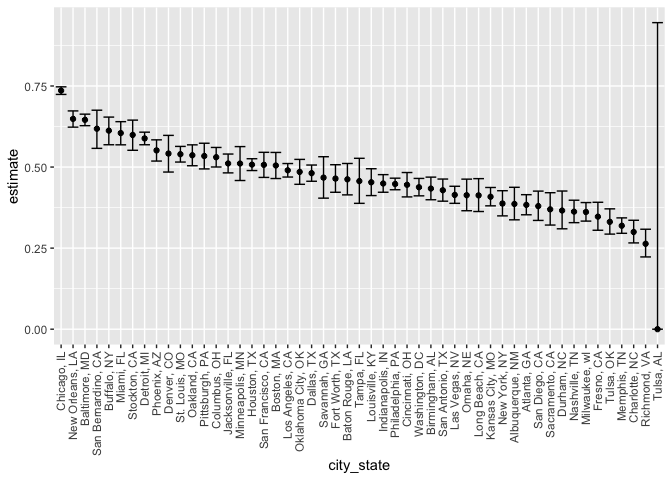
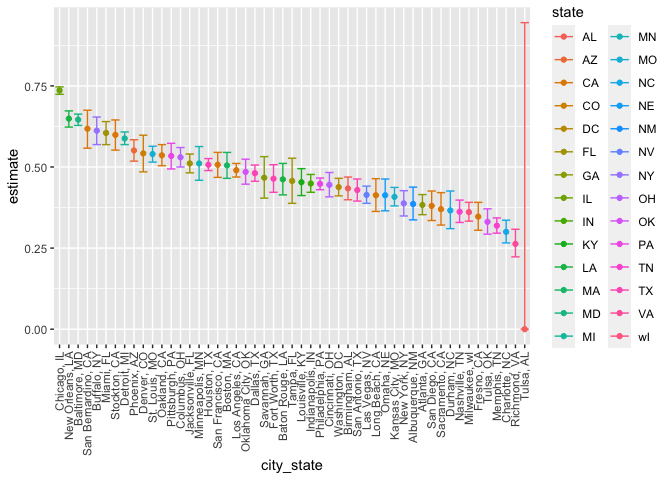
Finished problem 3.

Changed region(s): [[0.0625, 0.0, 1.0, 1.0], [0.0625, 0.1562, 0.0938, 0.2188]]

diff --git a/p8105_hw5_lr2854.md b/p8105_hw5_lr2854.md
@@ -54,7 +54,10 @@ homicide_df = homicide_df %>%
   ) %>% 
   select(city_state, n_unsolved, total_homicides, tidy_results) %>% 
   unnest(tidy_results) %>% 
-  select(city_state, n_unsolved, total_homicides, estimate, conf.low, conf.high) %>%
+  select(city_state, n_unsolved, total_homicides, estimate, conf.low, conf.high) %>% 
+  mutate(estimate = round(estimate, 3),
+         conf.low = round(conf.low,3),
+         conf.high = round(conf.high,3)) %>%
   janitor::clean_names("snake")
 ## Warning in .f(.x[[1L]], .y[[1L]], ...): Chi-squared approximation may be
 ## incorrect
@@ -71,7 +74,7 @@ homicide_df
 ##  5 Birmingham, AL         347             800    0.434    0.399     0.469
 ##  6 Boston, MA             310             614    0.505    0.465     0.545
 ##  7 Buffalo, NY            319             521    0.612    0.569     0.654
-##  8 Charlotte, NC          206             687    0.300    0.266     0.336
+##  8 Charlotte, NC          206             687    0.3      0.266     0.336
 ##  9 Chicago, IL           4073            5535    0.736    0.724     0.747
 ## 10 Cincinnati, OH         309             694    0.445    0.408     0.483
 ## # … with 41 more rows
@@ -85,7 +88,8 @@ for completeness.
 homicide_df %>% 
   ungroup() %>%
   mutate(city_state = fct_reorder(city_state, desc(estimate))) %>%
-  ggplot(aes(x = city_state, y = estimate)) +
+  mutate(state = str_sub(city_state, start = -2, end = -1)) %>%
+  ggplot(aes(x = city_state, y = estimate, color = state)) +
   geom_point() + 
   geom_errorbar(aes(ymin = conf_low, ymax = conf_high)) +
   theme(axis.text.x = element_text(angle = 90, vjust = 0.5, hjust = 1))
@@ -113,64 +117,90 @@ study_data = map_dfr(file_names, read_multi_csv) %>%
   mutate(
     study_arm = ifelse(study_arm == "con", "control", "experimental")
   ) %>%
-  select(study_arm, everything()) %>%
-  nest(study_arm)
-## Warning: All elements of `...` must be named.
-## Did you want `data = c(study_arm)`?
+  select(study_arm, everything())
 
 knitr:::kable(study_data)
 ```
 
-| subject_id | week_1 | week_2 | week_3 | week_4 | week_5 | week_6 | week_7 | week_8 | data         |
-|:-----------|-------:|-------:|-------:|-------:|-------:|-------:|-------:|-------:|:-------------|
-| con_01     |   0.20 |  -1.31 |   0.66 |   1.96 |   0.23 |   1.09 |   0.05 |   1.94 | control      |
-| con_02     |   1.13 |  -0.88 |   1.07 |   0.17 |  -0.83 |  -0.31 |   1.58 |   0.44 | control      |
-| con_03     |   1.77 |   3.11 |   2.22 |   3.26 |   3.31 |   0.89 |   1.88 |   1.01 | control      |
-| con_04     |   1.04 |   3.66 |   1.22 |   2.33 |   1.47 |   2.70 |   1.87 |   1.66 | control      |
-| con_05     |   0.47 |  -0.58 |  -0.09 |  -1.37 |  -0.32 |  -2.17 |   0.45 |   0.48 | control      |
-| con_06     |   2.37 |   2.50 |   1.59 |  -0.16 |   2.08 |   3.07 |   0.78 |   2.35 | control      |
-| con_07     |   0.03 |   1.21 |   1.13 |   0.64 |   0.49 |  -0.12 |  -0.07 |   0.46 | control      |
-| con_08     |  -0.08 |   1.42 |   0.09 |   0.36 |   1.18 |  -1.16 |   0.33 |  -0.44 | control      |
-| con_09     |   0.08 |   1.24 |   1.44 |   0.41 |   0.95 |   2.75 |   0.30 |   0.03 | control      |
-| con_10     |   2.14 |   1.15 |   2.52 |   3.44 |   4.26 |   0.97 |   2.73 |  -0.53 | control      |
-| exp_01     |   3.05 |   3.67 |   4.84 |   5.80 |   6.33 |   5.46 |   6.38 |   5.91 | experimental |
-| exp_02     |  -0.84 |   2.63 |   1.64 |   2.58 |   1.24 |   2.32 |   3.11 |   3.78 | experimental |
-| exp_03     |   2.15 |   2.08 |   1.82 |   2.84 |   3.36 |   3.61 |   3.37 |   3.74 | experimental |
-| exp_04     |  -0.62 |   2.54 |   3.78 |   2.73 |   4.49 |   5.82 |   6.00 |   6.49 | experimental |
-| exp_05     |   0.70 |   3.33 |   5.34 |   5.57 |   6.90 |   6.66 |   6.24 |   6.95 | experimental |
-| exp_06     |   3.73 |   4.08 |   5.40 |   6.41 |   4.87 |   6.09 |   7.66 |   5.83 | experimental |
-| exp_07     |   1.18 |   2.35 |   1.23 |   1.17 |   2.02 |   1.61 |   3.13 |   4.88 | experimental |
-| exp_08     |   1.37 |   1.43 |   1.84 |   3.60 |   3.80 |   4.72 |   4.68 |   5.70 | experimental |
-| exp_09     |  -0.40 |   1.08 |   2.66 |   2.70 |   2.80 |   2.64 |   3.51 |   3.27 | experimental |
-| exp_10     |   1.09 |   2.80 |   2.80 |   4.30 |   2.25 |   6.57 |   6.09 |   4.64 | experimental |
+| study_arm    | subject_id | week_1 | week_2 | week_3 | week_4 | week_5 | week_6 | week_7 | week_8 |
+|:-------------|:-----------|-------:|-------:|-------:|-------:|-------:|-------:|-------:|-------:|
+| control      | con_01     |   0.20 |  -1.31 |   0.66 |   1.96 |   0.23 |   1.09 |   0.05 |   1.94 |
+| control      | con_02     |   1.13 |  -0.88 |   1.07 |   0.17 |  -0.83 |  -0.31 |   1.58 |   0.44 |
+| control      | con_03     |   1.77 |   3.11 |   2.22 |   3.26 |   3.31 |   0.89 |   1.88 |   1.01 |
+| control      | con_04     |   1.04 |   3.66 |   1.22 |   2.33 |   1.47 |   2.70 |   1.87 |   1.66 |
+| control      | con_05     |   0.47 |  -0.58 |  -0.09 |  -1.37 |  -0.32 |  -2.17 |   0.45 |   0.48 |
+| control      | con_06     |   2.37 |   2.50 |   1.59 |  -0.16 |   2.08 |   3.07 |   0.78 |   2.35 |
+| control      | con_07     |   0.03 |   1.21 |   1.13 |   0.64 |   0.49 |  -0.12 |  -0.07 |   0.46 |
+| control      | con_08     |  -0.08 |   1.42 |   0.09 |   0.36 |   1.18 |  -1.16 |   0.33 |  -0.44 |
+| control      | con_09     |   0.08 |   1.24 |   1.44 |   0.41 |   0.95 |   2.75 |   0.30 |   0.03 |
+| control      | con_10     |   2.14 |   1.15 |   2.52 |   3.44 |   4.26 |   0.97 |   2.73 |  -0.53 |
+| experimental | exp_01     |   3.05 |   3.67 |   4.84 |   5.80 |   6.33 |   5.46 |   6.38 |   5.91 |
+| experimental | exp_02     |  -0.84 |   2.63 |   1.64 |   2.58 |   1.24 |   2.32 |   3.11 |   3.78 |
+| experimental | exp_03     |   2.15 |   2.08 |   1.82 |   2.84 |   3.36 |   3.61 |   3.37 |   3.74 |
+| experimental | exp_04     |  -0.62 |   2.54 |   3.78 |   2.73 |   4.49 |   5.82 |   6.00 |   6.49 |
+| experimental | exp_05     |   0.70 |   3.33 |   5.34 |   5.57 |   6.90 |   6.66 |   6.24 |   6.95 |
+| experimental | exp_06     |   3.73 |   4.08 |   5.40 |   6.41 |   4.87 |   6.09 |   7.66 |   5.83 |
+| experimental | exp_07     |   1.18 |   2.35 |   1.23 |   1.17 |   2.02 |   1.61 |   3.13 |   4.88 |
+| experimental | exp_08     |   1.37 |   1.43 |   1.84 |   3.60 |   3.80 |   4.72 |   4.68 |   5.70 |
+| experimental | exp_09     |  -0.40 |   1.08 |   2.66 |   2.70 |   2.80 |   2.64 |   3.51 |   3.27 |
+| experimental | exp_10     |   1.09 |   2.80 |   2.80 |   4.30 |   2.25 |   6.57 |   6.09 |   4.64 |
 
-Create a tidy dataframe containing data from all participants, including
-the subject ID, arm, and observations over time:
+A spaghetti plot showing observations for each subject over time reveals
+a trend that the experimental group, but not the control group, sees a
+rise in the study value over time.
 
-Tidy the result; manipulate file names to include control arm and
-subject ID, make sure weekly observations are “tidy”, and do any other
-tidying that’s necessary
+``` r
+study_data %>% 
+  pivot_longer(week_1:week_8, names_to = "week", 
+    names_prefix = "week_") %>%
+  ggplot(aes(x = week, y = value)) +
+  geom_line(aes(group = subject_id, color = study_arm)) + 
+  labs(
+    title = "Study Measurements over Time", 
+    y = "Value",
+    x = "Week", 
+    color = "Arm"
+  ) 
+```
 
-Make a spaghetti plot showing observations on each subject over time,
-and comment on differences between groups.
+![](p8105_hw5_lr2854_files/figure-gfm/study_trends-1.png)<!-- -->
 
 ## Problem 3
 
-The code chunk below loads the iris dataset from the tidyverse package
-and introduces some missing values in each column. The purpose of this
-problem is to fill in those missing values.
+Creating an iris dataset with missing data. The code below will replace
+20 random observations with NA values.
 
+``` r
 library(tidyverse)
-
 set.seed(10)
+iris_with_missing = iris %>% 
+  map_df(~replace(.x, sample(1:150, 20), NA)) %>%
+  mutate(Species = as.character(Species))
+```
 
-iris_with_missing = iris %>% map_df(\~replace(.x, sample(1:150, 20),
-NA)) %>% mutate(Species = as.character(Species)) There are two cases to
-address:
+The function below takes a variable vector as an argument and replaces
+the missing values as follows: - Filling in the missing numeric
+variables with the mean of the non-missing values. - Filling in missing
+character variables with “virginica”
 
-For numeric variables, you should fill in missing values with the mean
-of non-missing values For character variables, you should fill in
-missing values with “virginica” Write a function that takes a vector as
-an argument; replaces missing values using the rules defined above; and
-returns the resulting vector. Apply this function to the columns of
-iris_with_missing using a map statement.
+There were 100 missing values in the `iris_with_missing` dataset, of
+which 20 were character variables. This corresponds to 20 missing
+observations (5 variables).
+
+``` r
+replace_na = function(var_vec) {
+  if (is.numeric(var_vec)) {
+    var_vec = ifelse(is.na(var_vec), 
+                     round(mean(var_vec, na.rm = TRUE), 3), 
+                     round(var_vec, 3))
+  }
+  else if (is.character(var_vec)) {
+    var_vec = ifelse(is.na(var_vec), 
+                     "virginica", 
+                     var_vec)
+  }
+  return(var_vec)
+}
+
+found_iris = map_df(iris_with_missing, replace_na)
+```
